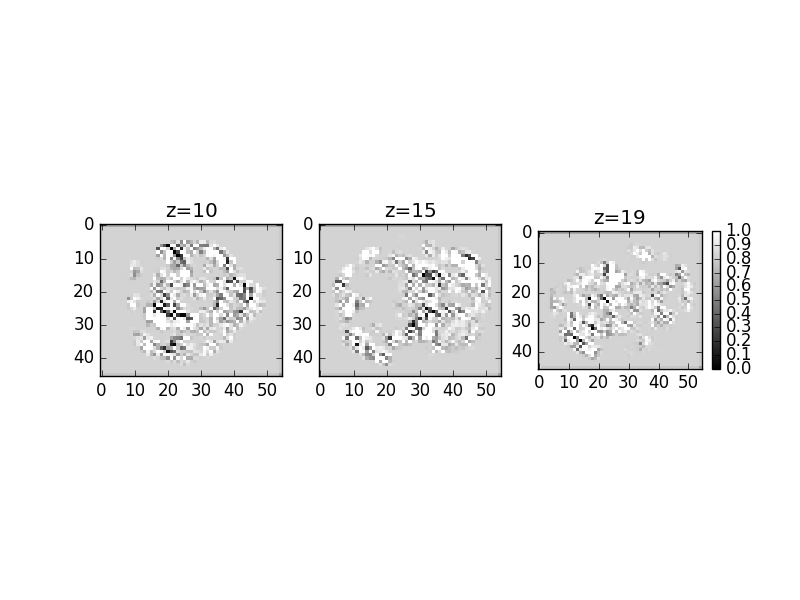
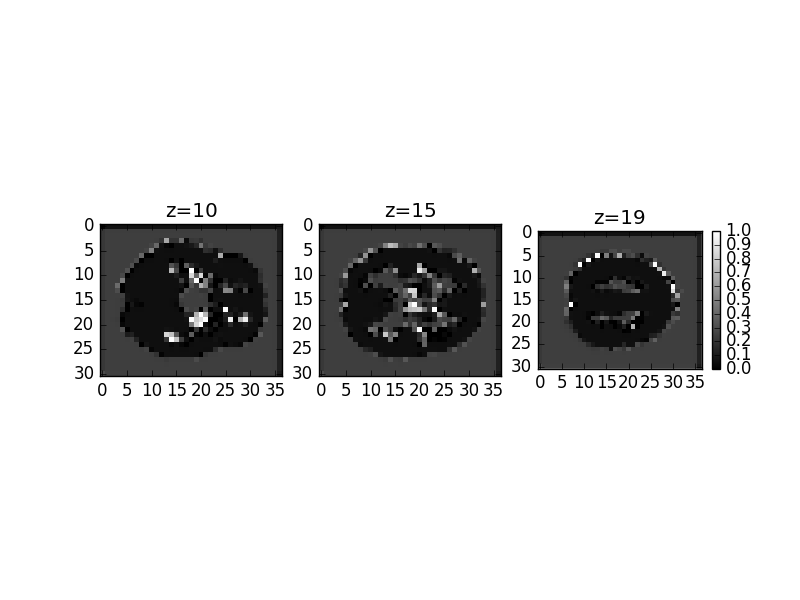
Incorporated new input reader, still need to make a few changes

Changed region(s): [[0.0938, 0.36, 0.9375, 0.66]]

diff --git a/models.py b/models.py
@@ -7,9 +7,9 @@ import copy
 
 
 class NeuralNetwork(CNNLayers):
-    def __init__(self, input_shape, output_shape, batch_size=1, learning_rate=1e-3, beta1=0.99, beta2=0.99, lmbda = None, op='Rmsprop'):
+    def __init__(self, train, data_list, input_shape, output_shape, batch_size=1, learning_rate=1e-3, beta1=0.99, beta2=0.99, lmbda = None, op='Rmsprop'):
         CNNLayers.__init__(self)
-        self.input, self.output, self.p_keep = self.createVariables(input_shape, output_shape, batch_size)
+        self.input, _, self.output, self.p_keep = self.createVariables(train, data_list, batch_size)
         self.input_shape = input_shape
         self.output_shape = output_shape
         self.batch_size = batch_size
@@ -42,9 +42,9 @@ class NeuralNetwork(CNNLayers):
 
 class ConvAutoEncoder(CNNLayers):
 
-    def __init__(self, input_shape, output_shape, batch_size=1, learning_rate=1e-3, beta1=0.99, beta2=0.99, rho=0.4, lmbda = 0.6, op='Rmsprop'):
+    def __init__(self, train, data_list, input_shape, output_shape, batch_size=1, learning_rate=1e-3, beta1=0.99, beta2=0.99, rho=0.4, lmbda = 0.6, op='Rmsprop'):
         CNNLayers.__init__(self)
-        self.input, self.output, self.p_keep = self.createVariables(input_shape, output_shape, batch_size)
+        self.input, _, self.output, self.p_keep = self.createVariables(train, data_list, batch_size)
         self.input_shape = input_shape
         self.output_shape = output_shape
         self.batch_size = batch_size
@@ -74,7 +74,7 @@ class ConvAutoEncoder(CNNLayers):
         self.encode = prev_layer
 
         print("The encoded image size is: " + str(prev_layer.get_shape().as_list()))
-        
+
         tot = 2*num_layers_encode #4 layers
         for i in range(num_layers_encode, tot):
             print(filters[tot-i-1])
@@ -107,9 +107,9 @@ class ConvAutoEncoder(CNNLayers):
 
 
 class ConvNN(CNNLayers):
-    def __init__(self, input_shape, output_shape, num_layers, batch_size=1, learning_rate=1e-3, beta1=0.99, beta2=0.99, lmbda = None, op='Rmsprop'):
+    def __init__(self, train, data_list, input_shape, output_shape, num_layers, batch_size=1, learning_rate=1e-3, beta1=0.99, beta2=0.99, lmbda = None, op='Rmsprop'):
         CNNLayers.__init__(self)
-        self.input, self.output, self.p_keep = self.createVariables(input_shape, output_shape, batch_size)
+        self.input, _, self.output, self.p_keep = self.createVariables(train, data_list, batch_size)
         self.input_shape = input_shape
         self.output_shape = output_shape
         self.batch_size = batch_size
@@ -164,9 +164,9 @@ class ConvNN(CNNLayers):
 
 
 # class ResCNN(CNNLayers):
-#     def __init__(self, input_shape, output_shape, batch_size=1, learning_rate=1e-3, beta1=0.99, beta2=0.99, rho=0.4, lmbda = 0.6, op='Rmsprop'):
+#     def __init__(self, train, data_list, input_shape, output_shape, batch_size=1, learning_rate=1e-3, beta1=0.99, beta2=0.99, rho=0.4, lmbda = 0.6, op='Rmsprop'):
 #         CNNLayers.__init__(self)
-#         self.input, self.output, self.p_keep = self.createVariables(input_shape, output_shape, batch_size)
+#         self.input, _, self.output, self.p_keep = self.createVariables(train, data_list, batch_size)
 #         self.input_shape = input_shape
 #         self.output_shape = output_shape
 #         self.batch_size = batch_size
@@ -179,10 +179,3 @@ class ConvNN(CNNLayers):
 
 
 #     def build_model(self):
-
-
-
-
-
-
-

diff --git a/run.py b/run.py
@@ -12,23 +12,29 @@ tf.app.flags.DEFINE_string('train_dir', '/data/train',
                            """Directory where to write event logs """)
 tf.app.flags.DEFINE_string('checkpoint_dir', '/data/ckpt',
                            """Directory where to write checkpoints """)
-tf.app.flags.DEFINE_integer('max_steps', 10,
+tf.app.flags.DEFINE_integer('max_steps', 1000,
                             """Number of batches to run.""")
 tf.app.flags.DEFINE_integer('batch_size', 32,
                             """Batch size being fed in.""")
+tf.app.flags.DEFINE_string('train_binaries', '/data/train.json',
+                           """File containing list of binary filenames used for training """)
+tf.app.flags.DEFINE_boolean('train', True,
+                           """Boolean describing training mode """)
 
 
-def createAutoEncoderModel():
+def createAutoEncoderModel(train, data_list):
 
-    numForwardLayers = 4
-    lmbVec = [0.4]*numForwardLayers*2
-    rhoVec = [0.1]*numForwardLayers*2
+    numForwardLayers = 2
+    lmbVec = [0.6]*numForwardLayers*2
+    rhoVec = [0.7]*numForwardLayers*2
 
     print("Creating the Convolutional AutoEncoder Object")
-    cae = ConvAutoEncoder([FLAGS.batch_size, 45, 54, 45, 1], [FLAGS.batch_size, 45, 54, 45, 1], FLAGS.batch_size, 0.001, 0.99, None, rho=rhoVec, lmbda = lmbVec, op='Rmsprop')
+    cae = ConvAutoEncoder(train, data_list, [FLAGS.batch_size, 45, 54, 45, 1], [FLAGS.batch_size, 45, 54, 45, 1], FLAGS.batch_size, 0.001, 0.99, None, rho=rhoVec, lmbda = lmbVec, op='Rmsprop')
 
-    allFilters = [[3, 3, 3, 1, 1],[3, 3, 3, 1, 1], [3, 3, 3, 1, 1], [3, 3, 3, 1, 1]]
-    allStrides = [[1, 1, 1, 1, 1],[1, 1, 1, 1, 1],[1, 2, 2, 2, 1], [1, 1, 1, 1, 1]]
+    # allFilters = [[3, 3, 3, 1, 1],[3, 3, 3, 1, 1], [3, 3, 3, 1, 1], [3, 3, 3, 1, 1]]
+    # allStrides = [[1, 1, 1, 1, 1],[1, 1, 1, 1, 1],[1, 2, 2, 2, 1], [1, 1, 1, 1, 1]]
+    allFilters = [[3, 3, 3, 1, 1],[3, 3, 3, 1, 1]]
+    allStrides = [[1, 1, 1, 1, 1],[1, 3, 3, 3, 1]]
     allNames = ["layer1_filters","layer2_filters","layer3_filters","layer4_filters","layer5_filters","layer6_filters",
                 "layer7_filters","layer8_filters","layer9_filters","layer10_filters"]
     allRelu = [True]*numForwardLayers*2
@@ -52,12 +58,12 @@ def createAutoEncoderModel():
 
 
 
-def createCNNModel():
+def createCNNModel(train, data_list):
 
     numLayers = 7
     regConstants = [0.6]*numLayers
     print("Creating the Convolutional Neural Network Object")
-    deepCnn = ConvNN([FLAGS.batch_size, 45, 54, 45, 1], [FLAGS.batch_size, 45, 54, 45, 1], numLayers , FLAGS.batch_size, 0.001, 0.99, None, lmbda = regConstants, op='Rmsprop')
+    deepCnn = ConvNN(train, data_list, [FLAGS.batch_size, 45, 54, 45, 1], [FLAGS.batch_size, 45, 54, 45, 1], numLayers , FLAGS.batch_size, 0.001, 0.99, None, lmbda = regConstants, op='Rmsprop')
 
     print("Building the Deep CNN Model")
     layersOut, weights = deepCnn.build_model()
@@ -74,7 +80,7 @@ def createCNNModel():
 
 
 def main():
-    layer_outputs, weights, weight_shapes, encode, decode, cost, train_op = createAutoEncoderModel()
+    layer_outputs, weights, weight_shapes, encode, decode, cost, train_op = createAutoEncoderModel(True, FLAGS.train_binaries)
 
     # layer_outputs, weights, cost, train_op = createCNNModel()
 

diff --git a/layers.py b/layers.py
@@ -13,19 +13,18 @@ class Layers(object):
         self.stdDev = 0.35
 
     ''' Initializes the weights based on the std dev set in the constructor
-    
+
     '''
     def init_weights(self, shape):
         return tf.Variable(tf.random_normal(shape, stddev=self.stdDev))
 
-    def createVariables(self, x_shape, y_shape, batch_size):
-        # X = tf.placeholder("float", x_shape)
-        # Y = tf.placeholder("float", y_shape)
+    def createVariables(self, train, data_list, batch_size):
+        # train: Boolean
+        # data_list: Path of a file containing a list of all binary data file paths
+        # batch_size: int
         p_keep_conv = tf.placeholder("float")
-        # return X,Y,p_keep_conv
-
-        X, Y = inputs(True, '/data/train_brain_binary_list.json', batch_size)
-        return X,Y,p_keep_conv
+        X_image, X_data, Y = inputs(train, data_list, batch_size)
+        return X_image, X_data, Y, p_keep_conv
 
 
     def dropout(self, prev_layer,  p_keep):
@@ -117,16 +116,16 @@ class CNNLayers(Layers):
     def conv_layer(self, prev_layer_out, w_shape, layer_stride, w_name, num_dim = '2d', padding='SAME',if_relu = True, batchNorm = True):
         w_conv = tf.Variable(tf.random_normal(w_shape, stddev=self.stdDev),
                           name=w_name)
-        
+
         numFilters = w_shape[len(w_shape)-1]
         b = tf.Variable(tf.random_normal([numFilters], stddev=self.stdDev))
 
         nextLayer = None
         if num_dim == '3d':
-            nextLayer = tf.add(tf.nn.conv3d(prev_layer_out, w_conv, 
+            nextLayer = tf.add(tf.nn.conv3d(prev_layer_out, w_conv,
                             strides=layer_stride, padding=padding,name=w_name),b)
         else:
-            nextLayer = tf.add(tf.nn.conv2d(prev_layer_out, w_conv, 
+            nextLayer = tf.add(tf.nn.conv2d(prev_layer_out, w_conv,
                             strides=layer_stride, padding=padding,name=w_name),b)
 
         if batchNorm:
@@ -135,7 +134,7 @@ class CNNLayers(Layers):
         if if_relu:
             nextLayer = self.relu(nextLayer)
 
-        
+
         return nextLayer, w_conv
 
 
@@ -150,10 +149,10 @@ class CNNLayers(Layers):
         nextLayer = None
 
         if num_dim == '3d':
-            nextLayer = tf.add(tf.nn.conv3d_transpose(prev_layer_out, w_deconv, out_shape, 
+            nextLayer = tf.add(tf.nn.conv3d_transpose(prev_layer_out, w_deconv, out_shape,
                             strides=layer_stride, padding=padding),b)
         else:
-            nextLayer = tf.add(tf.nn.conv2d_transpose(prev_layer_out, w_deconv, out_shape, 
+            nextLayer = tf.add(tf.nn.conv2d_transpose(prev_layer_out, w_deconv, out_shape,
                             strides=layer_stride, padding=padding),b)
 
         if batchNorm:
@@ -162,9 +161,9 @@ class CNNLayers(Layers):
         if if_relu:
             nextLayer = self.relu(nextLayer)
 
-        
+
         return nextLayer, w_deconv
-        
+
     def pool(self, prev_layer, window_size, str_size, poolType = 'max'):
         next_layer = None
         if poolType == 'max':
@@ -187,7 +186,3 @@ class CNNLayers(Layers):
     def residual_unit(self, input_layer, output_layer):
         res = input_layer + output_layer
         return res
-
-
-
-

diff --git a/input_brain.py b/input_brain.py
@@ -54,7 +54,7 @@ def read_binary(filename_queue):
 
 def _generate_image_and_label_batch(image, data, label, min_queue_examples, batch_size, shuffle):
 	# Create queue that shuffles examples and reads 'batch_size' images/labels from queue
-	train_preprocess_threads = 1
+	train_preprocess_threads = 16
 	test_preprocess_threads = 1         # TODO: subject to change- explain
 
 	if shuffle:
